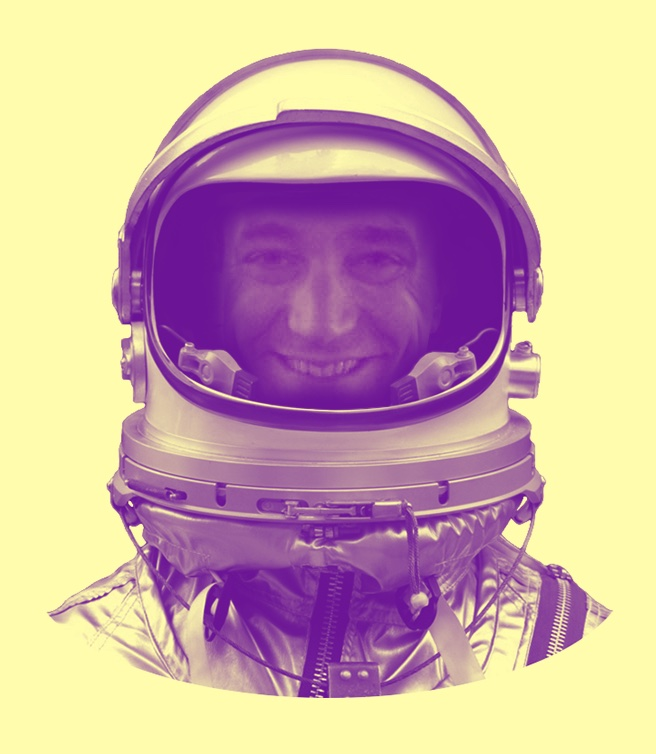
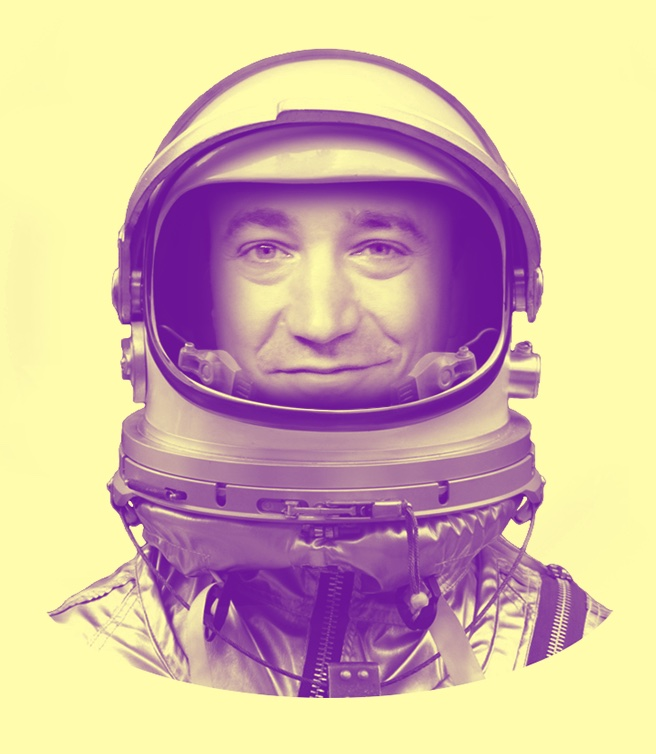
change bg color for intro + update photo team

Changed region(s): [[0.3049, 0.244, 0.7012, 0.5491]]

diff --git a/style/styles.css b/style/styles.css
@@ -100,16 +100,9 @@ h2 {
   letter-spacing: .16em;
 }
 .content h2 {
-  /*text-transform: uppercase;
-  letter-spacing: 0.1em;*/
   font-style: normal;
   text-align: center;
 }
-h1 {
-  /*text-transform: uppercase;
-  letter-spacing: 0.1em;*/
-}
-
 
 div, p, blockquote, button {
   margin: 0;
@@ -129,7 +122,6 @@ small {
   font-size: .6em;
 }
 
-
 button, .button {
   outline: none;
   box-shadow: none;
@@ -146,8 +138,6 @@ button, .button {
      -moz-transition:    -moz-transform .3s;
           transition:         transform .3s;
 }
-
-
 
 a {
   color: inherit;
@@ -175,23 +165,6 @@ ul.large-list a {
   border-bottom: 2px solid hsla(282, 80%, 76%, 0.5);
   color: hsl(58, 100%, 84%);
 }
-
-/*button {
-  color: #fdf9ad;
-  border-color: #784e78;
-  background-color: #2c182f;
-}
-button.transparent {
-  background-color: transparent;
-}
-button:hover, a:hover button,
-.button:hover, a:hover .button,
-button.transparent:hover
- {
-  color: #2c182f;
-  border-color: #784e78;
-  background-color: #fdf9ad;
-}*/
 
 button.inverse {
   border-color: hsl(282, 99%, 31%);
@@ -269,10 +242,6 @@ hr {
   color: white;
 }
 
-
-
-
-
 /* home-section.html styling */
 
 #top-home-section {
@@ -284,6 +253,7 @@ hr {
     no-repeat;
   background-size:
     cover;
+  background-color: #231028
 }
 
 button, .button {
@@ -313,18 +283,6 @@ button:hover, .button:hover {
   background-color: hsl(58, 100%, 84%);
   color: black;
 }
-
-
-/*#home-demos .button {
-  color: hsl(282, 99%, 31%);
-}
-
-#home-demos .button:hover
- {
-  border-color: hsl(282, 99%, 31%);
-  background-color: hsl(282, 99%, 31%);
-  color: hsl(58, 100%, 84%);
-}*/
 
 #home-demos #demos-subtitle {
   text-align: center;
